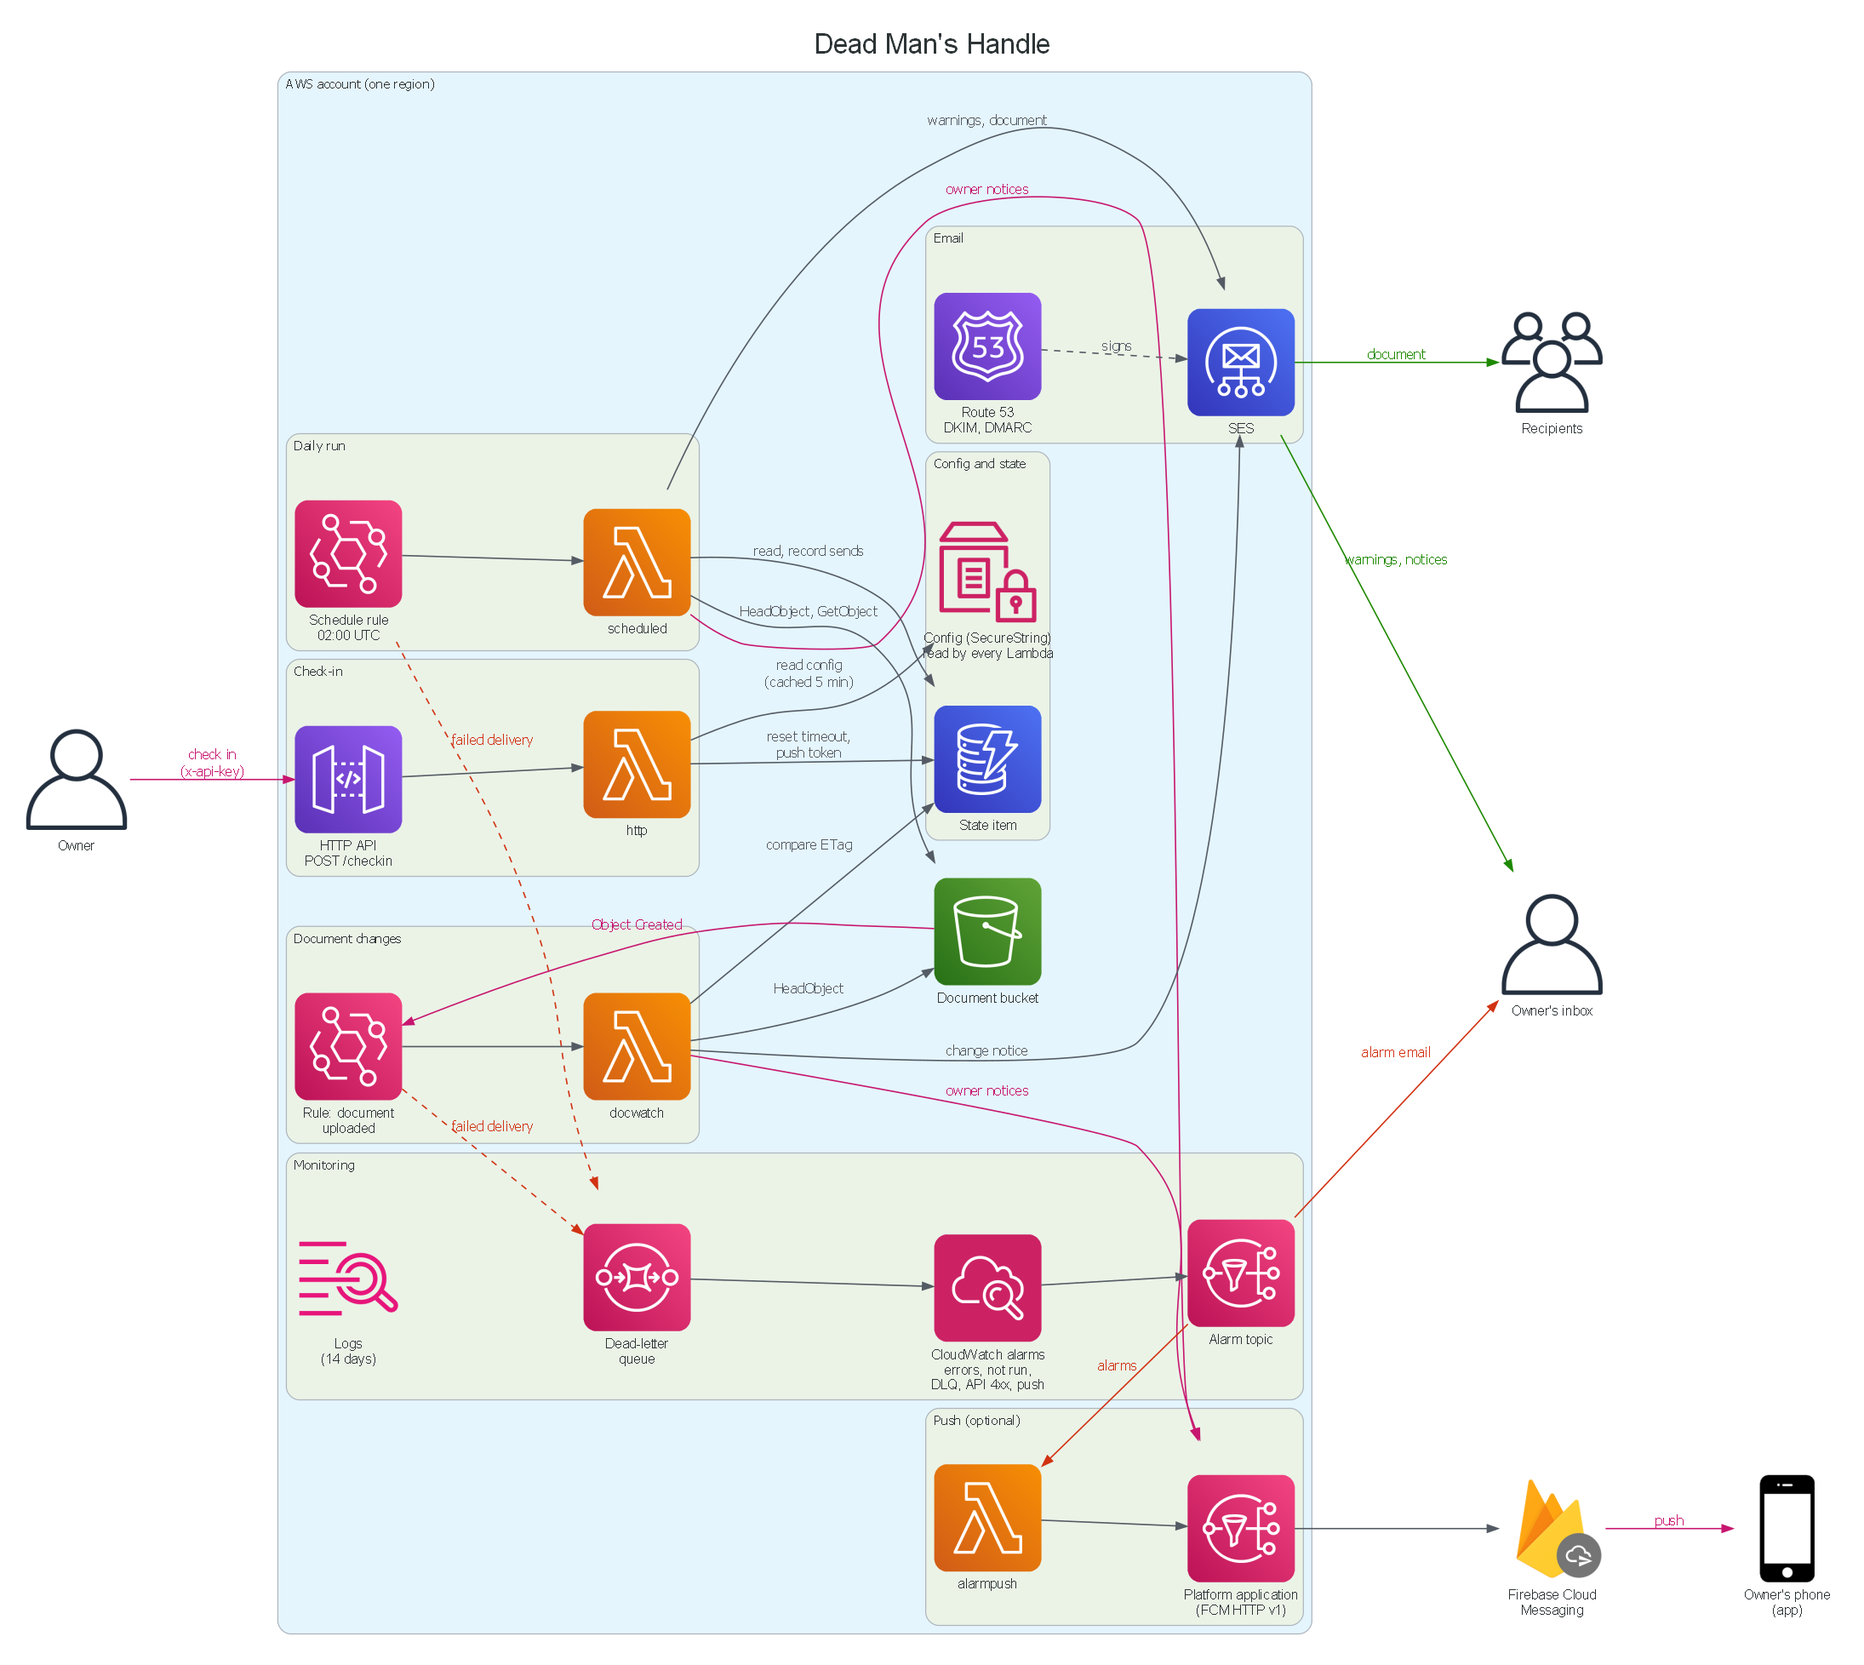
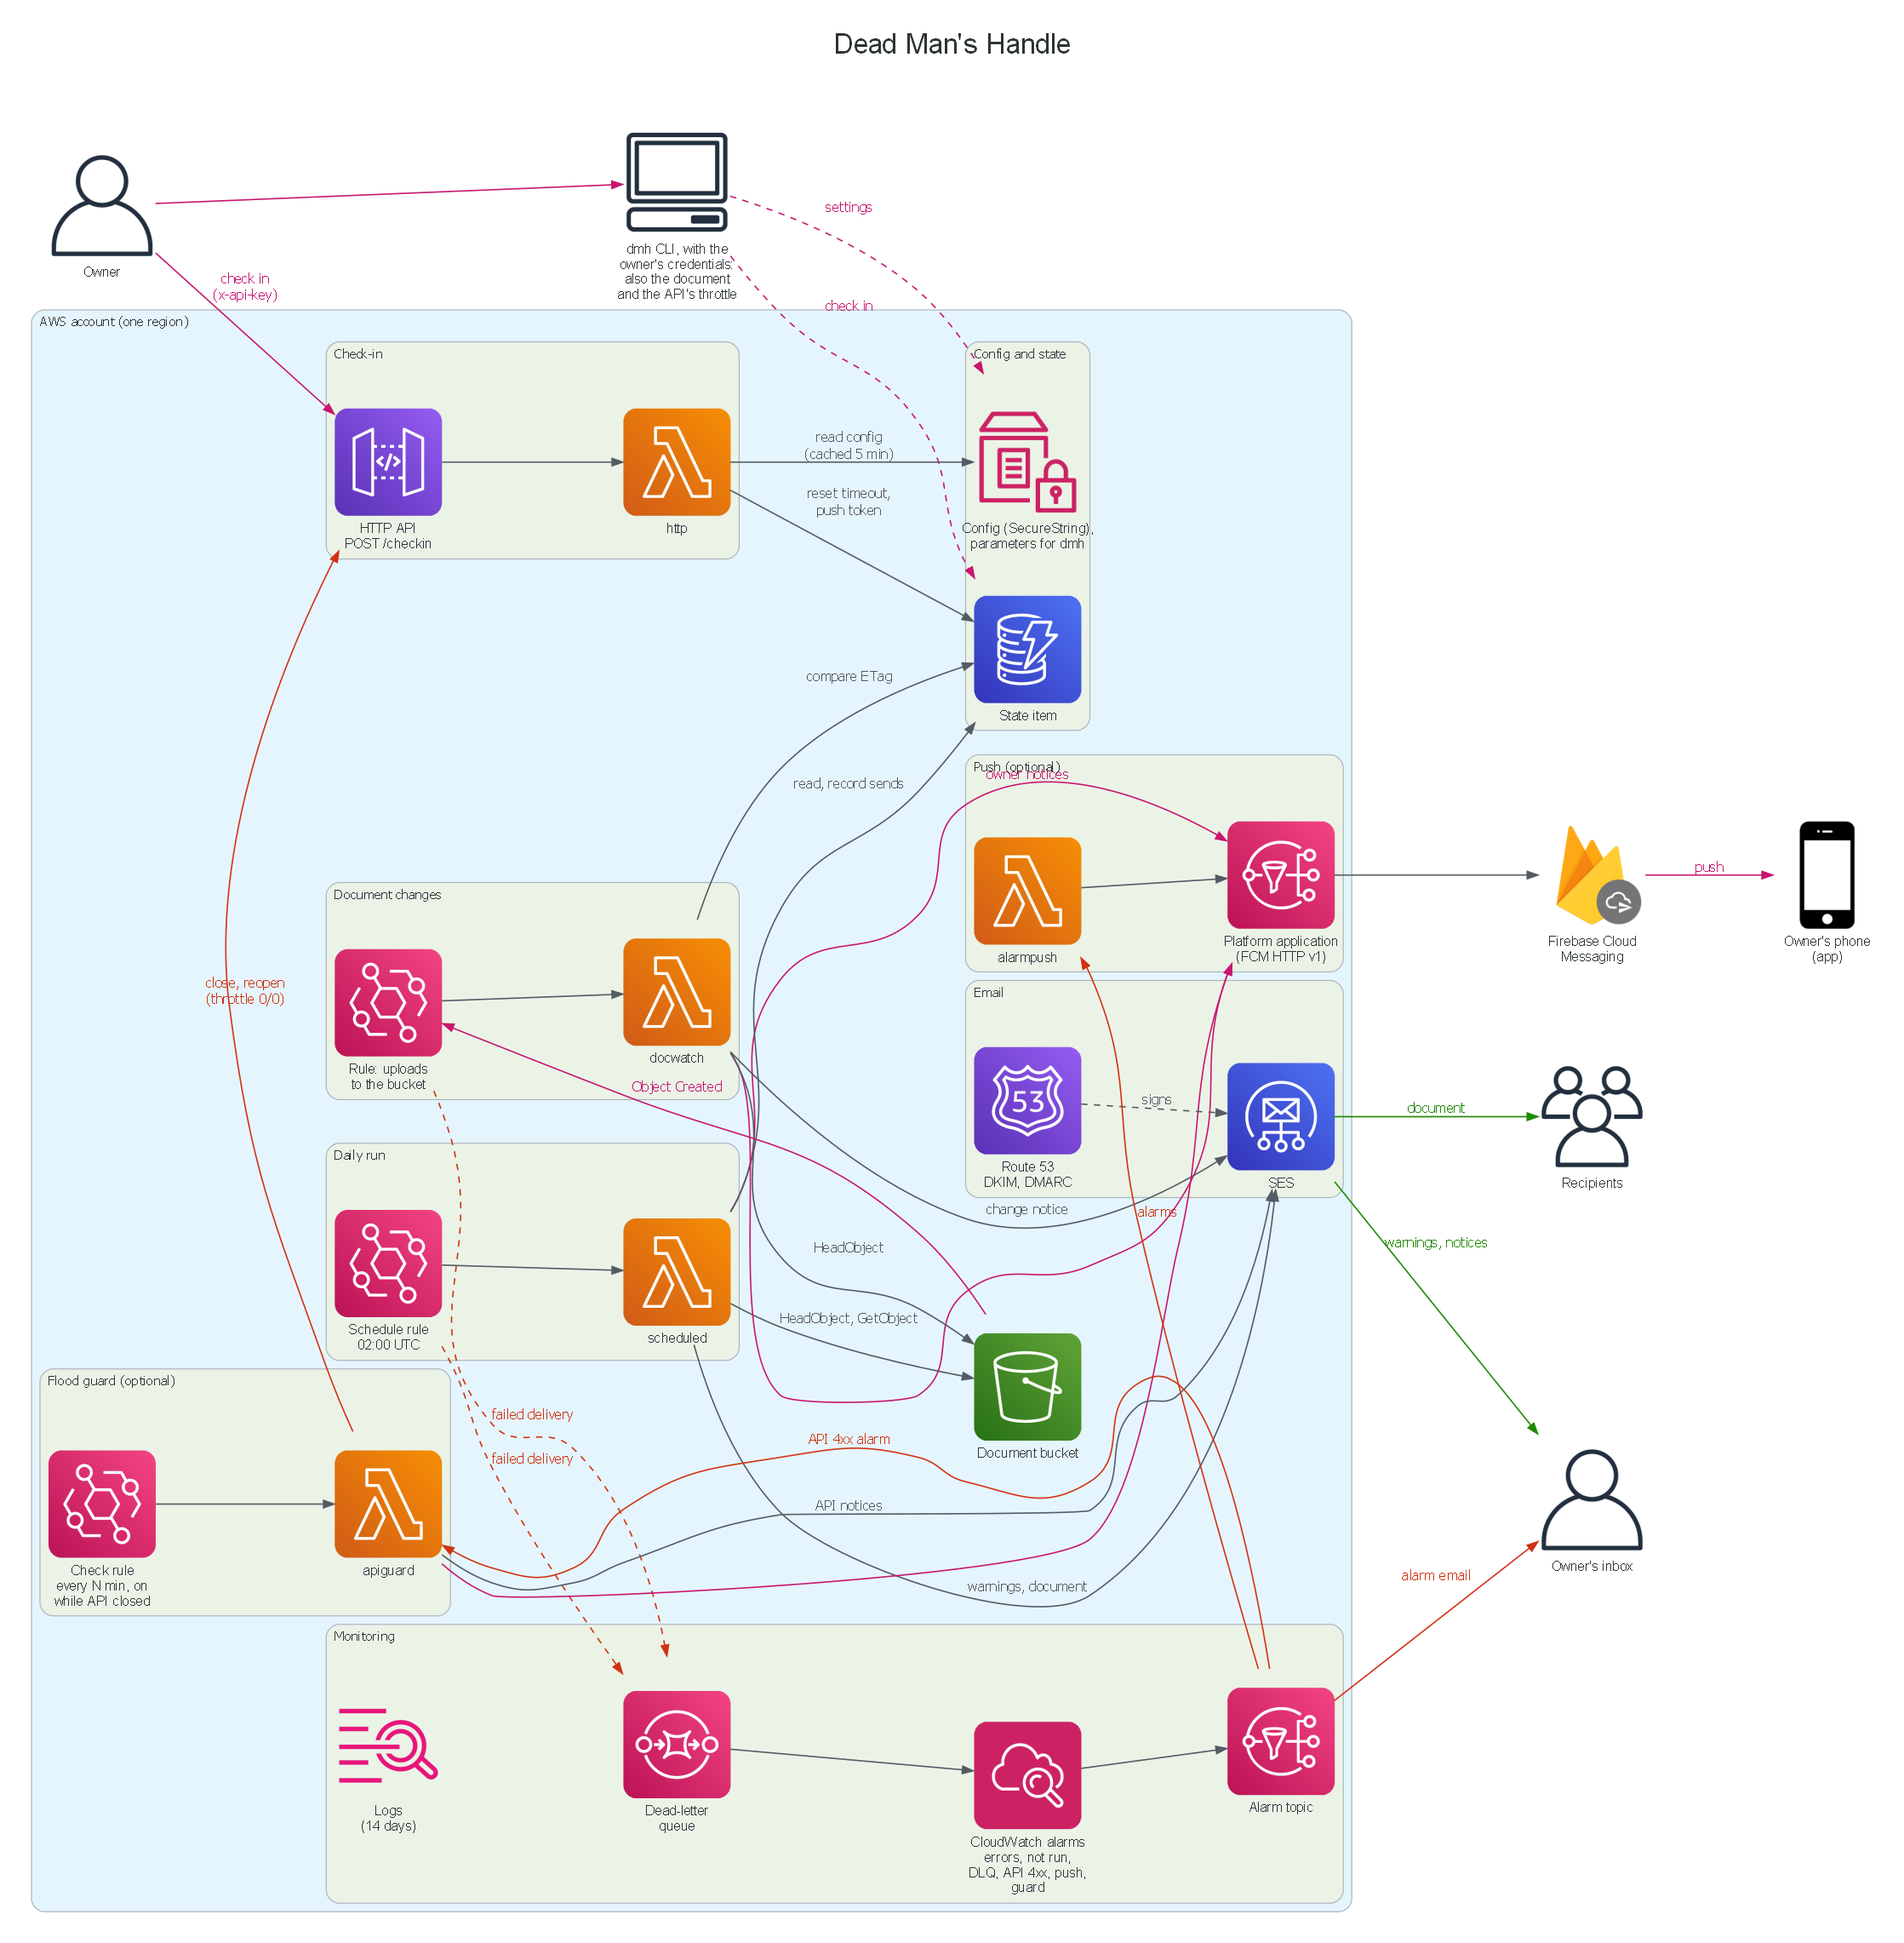
Add the flood guard and dmh to the architecture diagram
The flood guard cluster shows the check rule and the apiguard Lambda, the
API 4xx alarm reaching it from the alarm topic, and its close and reopen
of the HTTP API. dmh is drawn working directly on the config and state
with the owner's credentials. The upload rule now matches every upload
to the bucket, so its label says so. Only one owner-notices edge is
labelled, as more labels landed on the push cluster's title.

diff --git a/tools/architecture_diagram.py b/tools/architecture_diagram.py
@@ -26,6 +26,7 @@ from diagrams.aws.network import APIGateway, Route53
 from diagrams.aws.storage import S3
 from diagrams.firebase.grow import Messaging
 from diagrams.generic.device import Mobile
+from diagrams.onprem.client import Client
 
 repo = os.path.dirname(os.path.dirname(os.path.abspath(__file__)))
 out = sys.argv[1] if len(sys.argv) > 1 else os.path.join(repo, "docs", "architecture")
@@ -63,6 +64,7 @@ with Diagram(
     edge_attr=edge_attr,
 ):
     owner = User("Owner")
+    cli = Client("dmh CLI, with the\nowner's credentials:\nalso the document\nand the API's throttle")
 
     with Cluster("AWS account (one region)"):
         with Cluster("Push (optional)"):
@@ -78,11 +80,15 @@ with Diagram(
             scheduled_fn = Lambda("scheduled")
 
         with Cluster("Document changes"):
-            upload_rule = Eventbridge("Rule: document\nuploaded")
+            upload_rule = Eventbridge("Rule: uploads\nto the bucket")
             docwatch_fn = Lambda("docwatch")
 
+        with Cluster("Flood guard (optional)"):
+            check_rule = Eventbridge("Check rule\nevery N min, on\nwhile API closed")
+            apiguard_fn = Lambda("apiguard")
+
         with Cluster("Config and state"):
-            config = SystemsManagerParameterStore("Config (SecureString)\nread by every Lambda")
+            config = SystemsManagerParameterStore("Config (SecureString),\nparameters for dmh")
             state = Dynamodb("State item")
 
         bucket = S3("Document bucket")
@@ -93,7 +99,7 @@ with Diagram(
 
         with Cluster("Monitoring"):
             dlq = SimpleQueueServiceSqs("Dead-letter\nqueue")
-            alarms = Cloudwatch("CloudWatch alarms\nerrors, not run,\nDLQ, API 4xx, push")
+            alarms = Cloudwatch("CloudWatch alarms\nerrors, not run,\nDLQ, API 4xx, push,\nguard")
             topic = SimpleNotificationServiceSns("Alarm topic")
             logs = CloudwatchLogs("Logs\n(14 days)")
 
@@ -106,6 +112,11 @@ with Diagram(
     owner >> edge("check in\n(x-api-key)", PINK) >> api >> http_fn
     http_fn >> edge("read config\n(cached 5 min)") >> config
     http_fn >> edge("reset timeout,\npush token") >> state
+
+    # The CLI works on AWS directly, not through the Lambdas
+    owner >> edge(color=PINK) >> cli
+    cli >> edge("settings", PINK, "dashed") >> config
+    cli >> edge("check in", PINK, "dashed") >> state
 
     # Daily run
     schedule >> scheduled_fn
@@ -129,9 +140,18 @@ with Diagram(
     [schedule, upload_rule] >> edge("failed delivery", RED, "dashed") >> dlq
     dlq >> alarms >> topic >> edge("alarm email", RED) >> inbox
 
+    # Flood guard: the API 4xx alarm closes the API; the check reopens it
+    # once the alarm clears
+    topic >> edge("API 4xx alarm", RED, constraint="false") >> apiguard_fn
+    apiguard_fn >> edge("close, reopen\n(throttle 0/0)", RED, constraint="false") >> api
+    check_rule >> apiguard_fn
+    apiguard_fn >> edge("API notices", constraint="false") >> ses
+
     # Push: owner notices and alarms also go to the app, through FCM. The
     # edges into the row don't move the rest of the layout.
-    [scheduled_fn, docwatch_fn] >> edge("owner notices", PINK, constraint="false") >> platform
+    # Labelled once: more labels crowd the push cluster's title
+    scheduled_fn >> edge("owner notices", PINK, constraint="false") >> platform
+    [docwatch_fn, apiguard_fn] >> edge(color=PINK, constraint="false") >> platform
     topic >> edge("alarms", RED, constraint="false") >> alarmpush_fn
     alarmpush_fn >> platform >> fcm >> edge("push", PINK) >> phone
 
